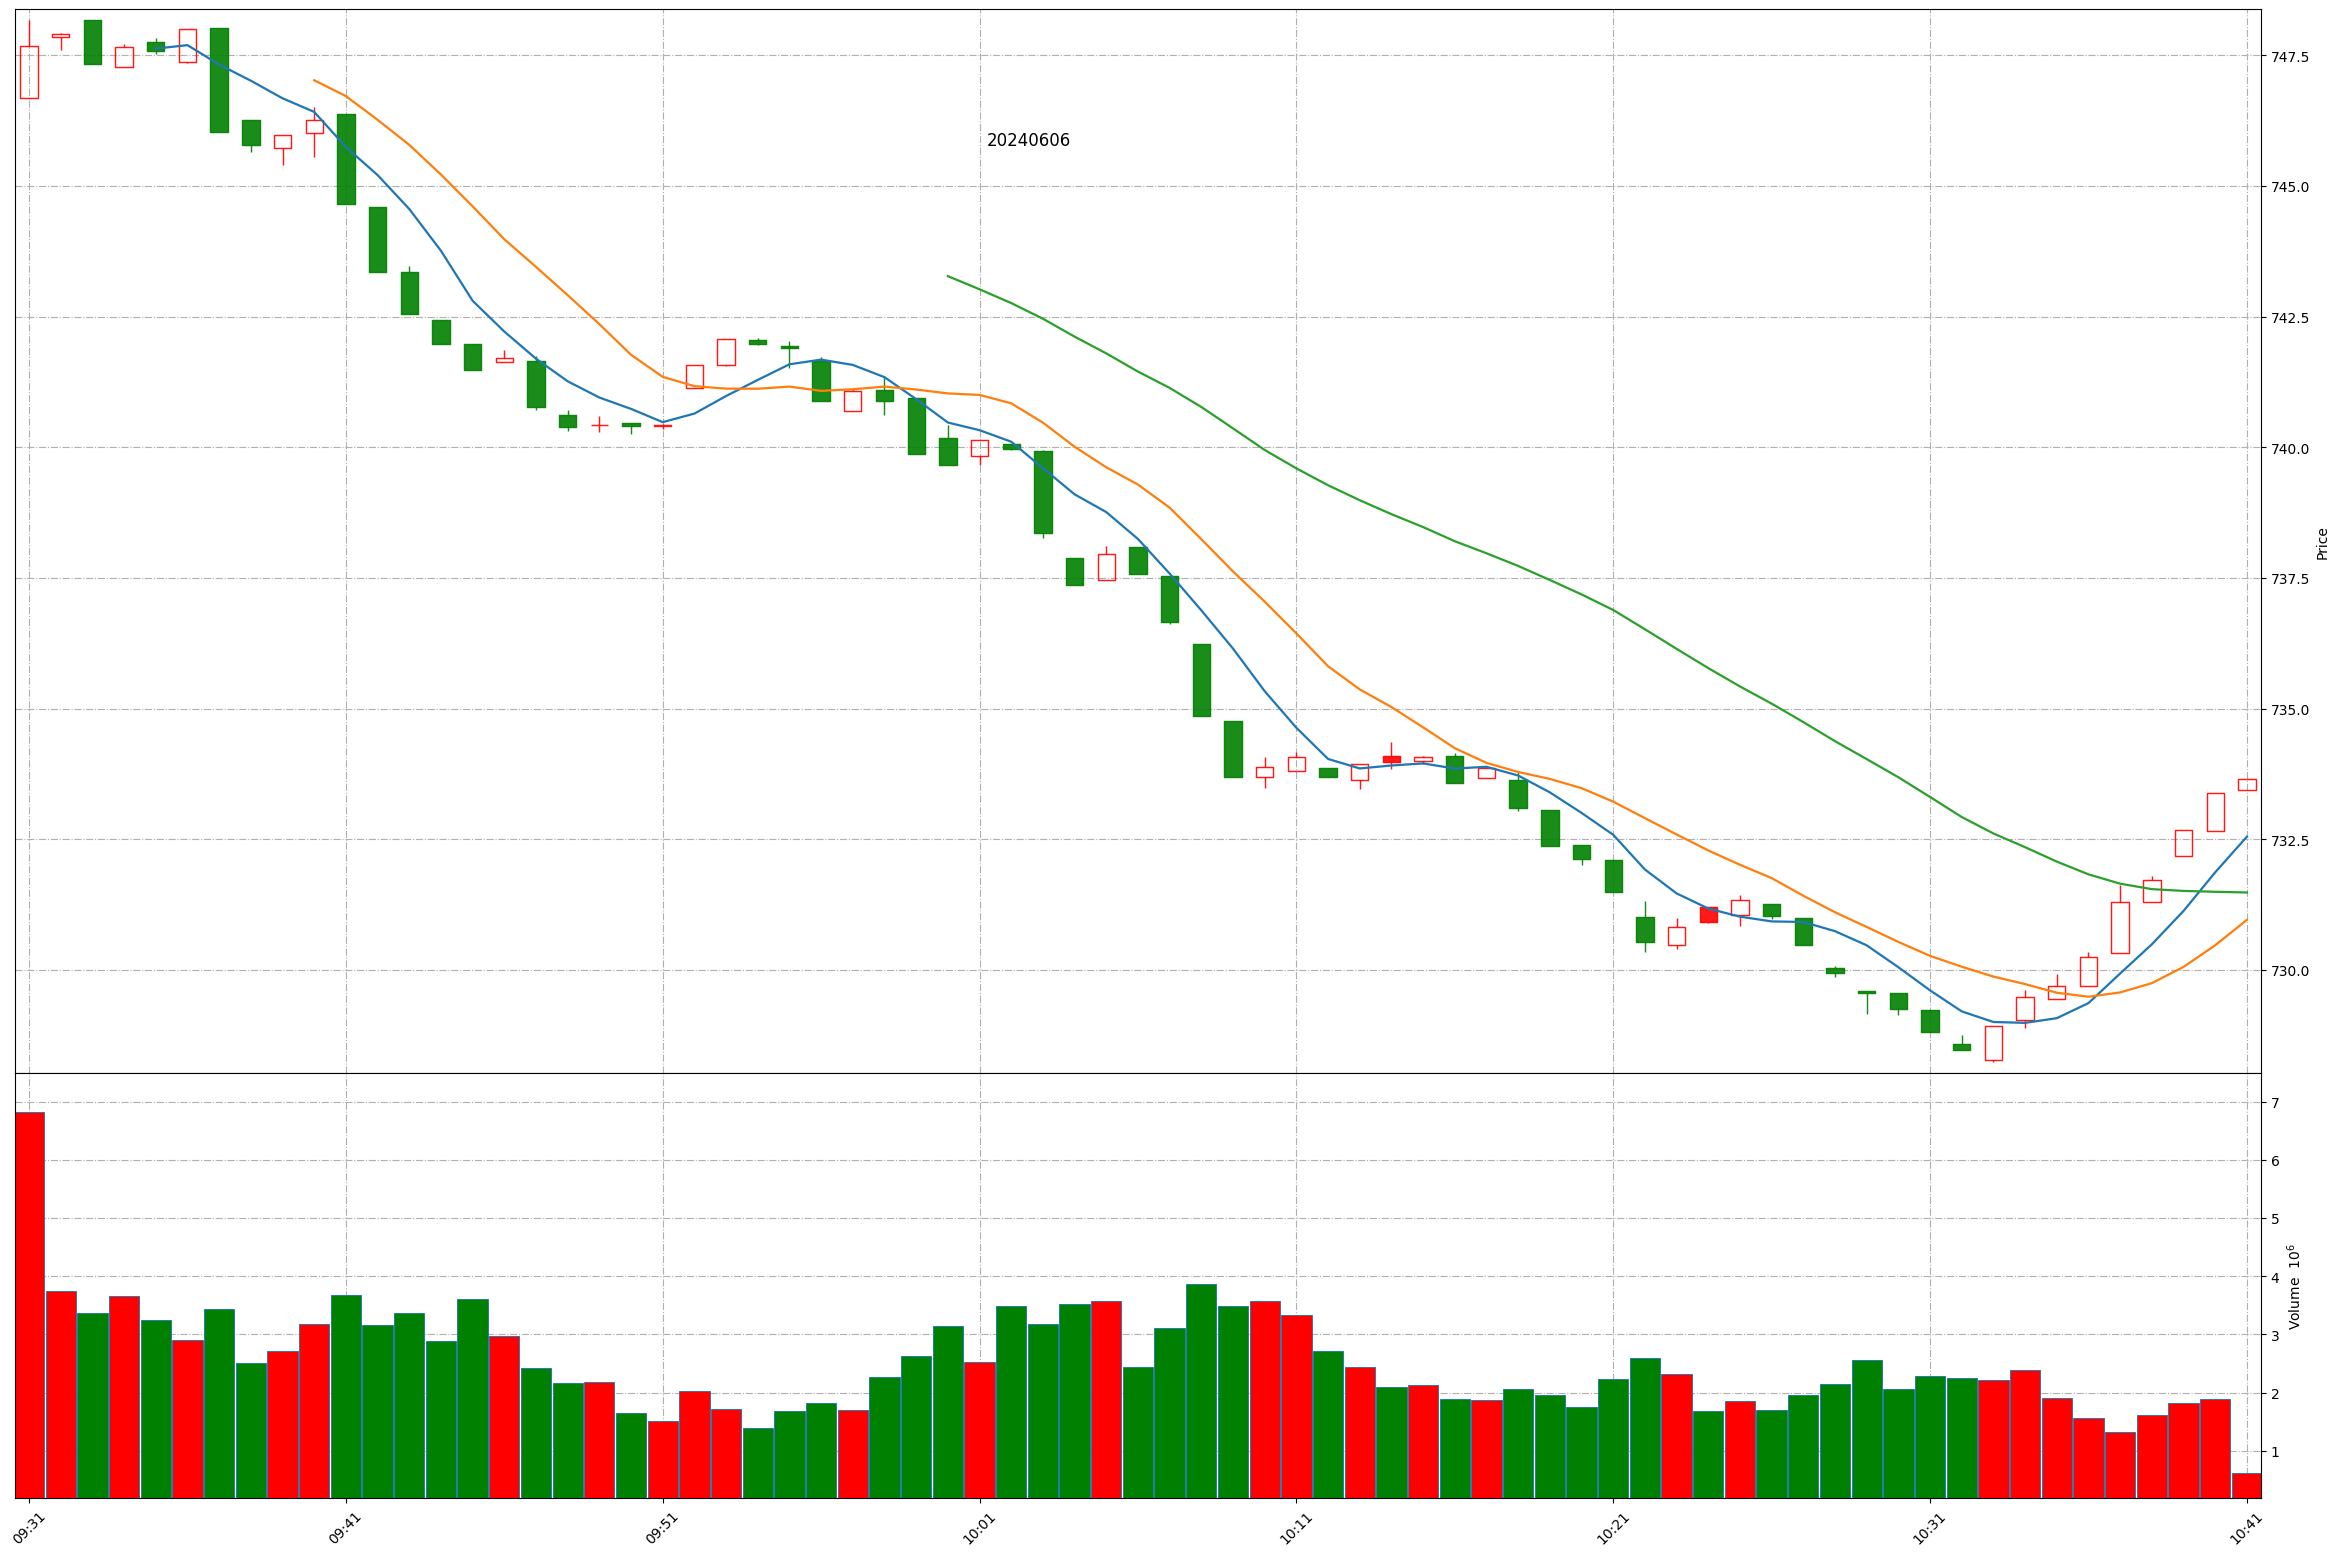
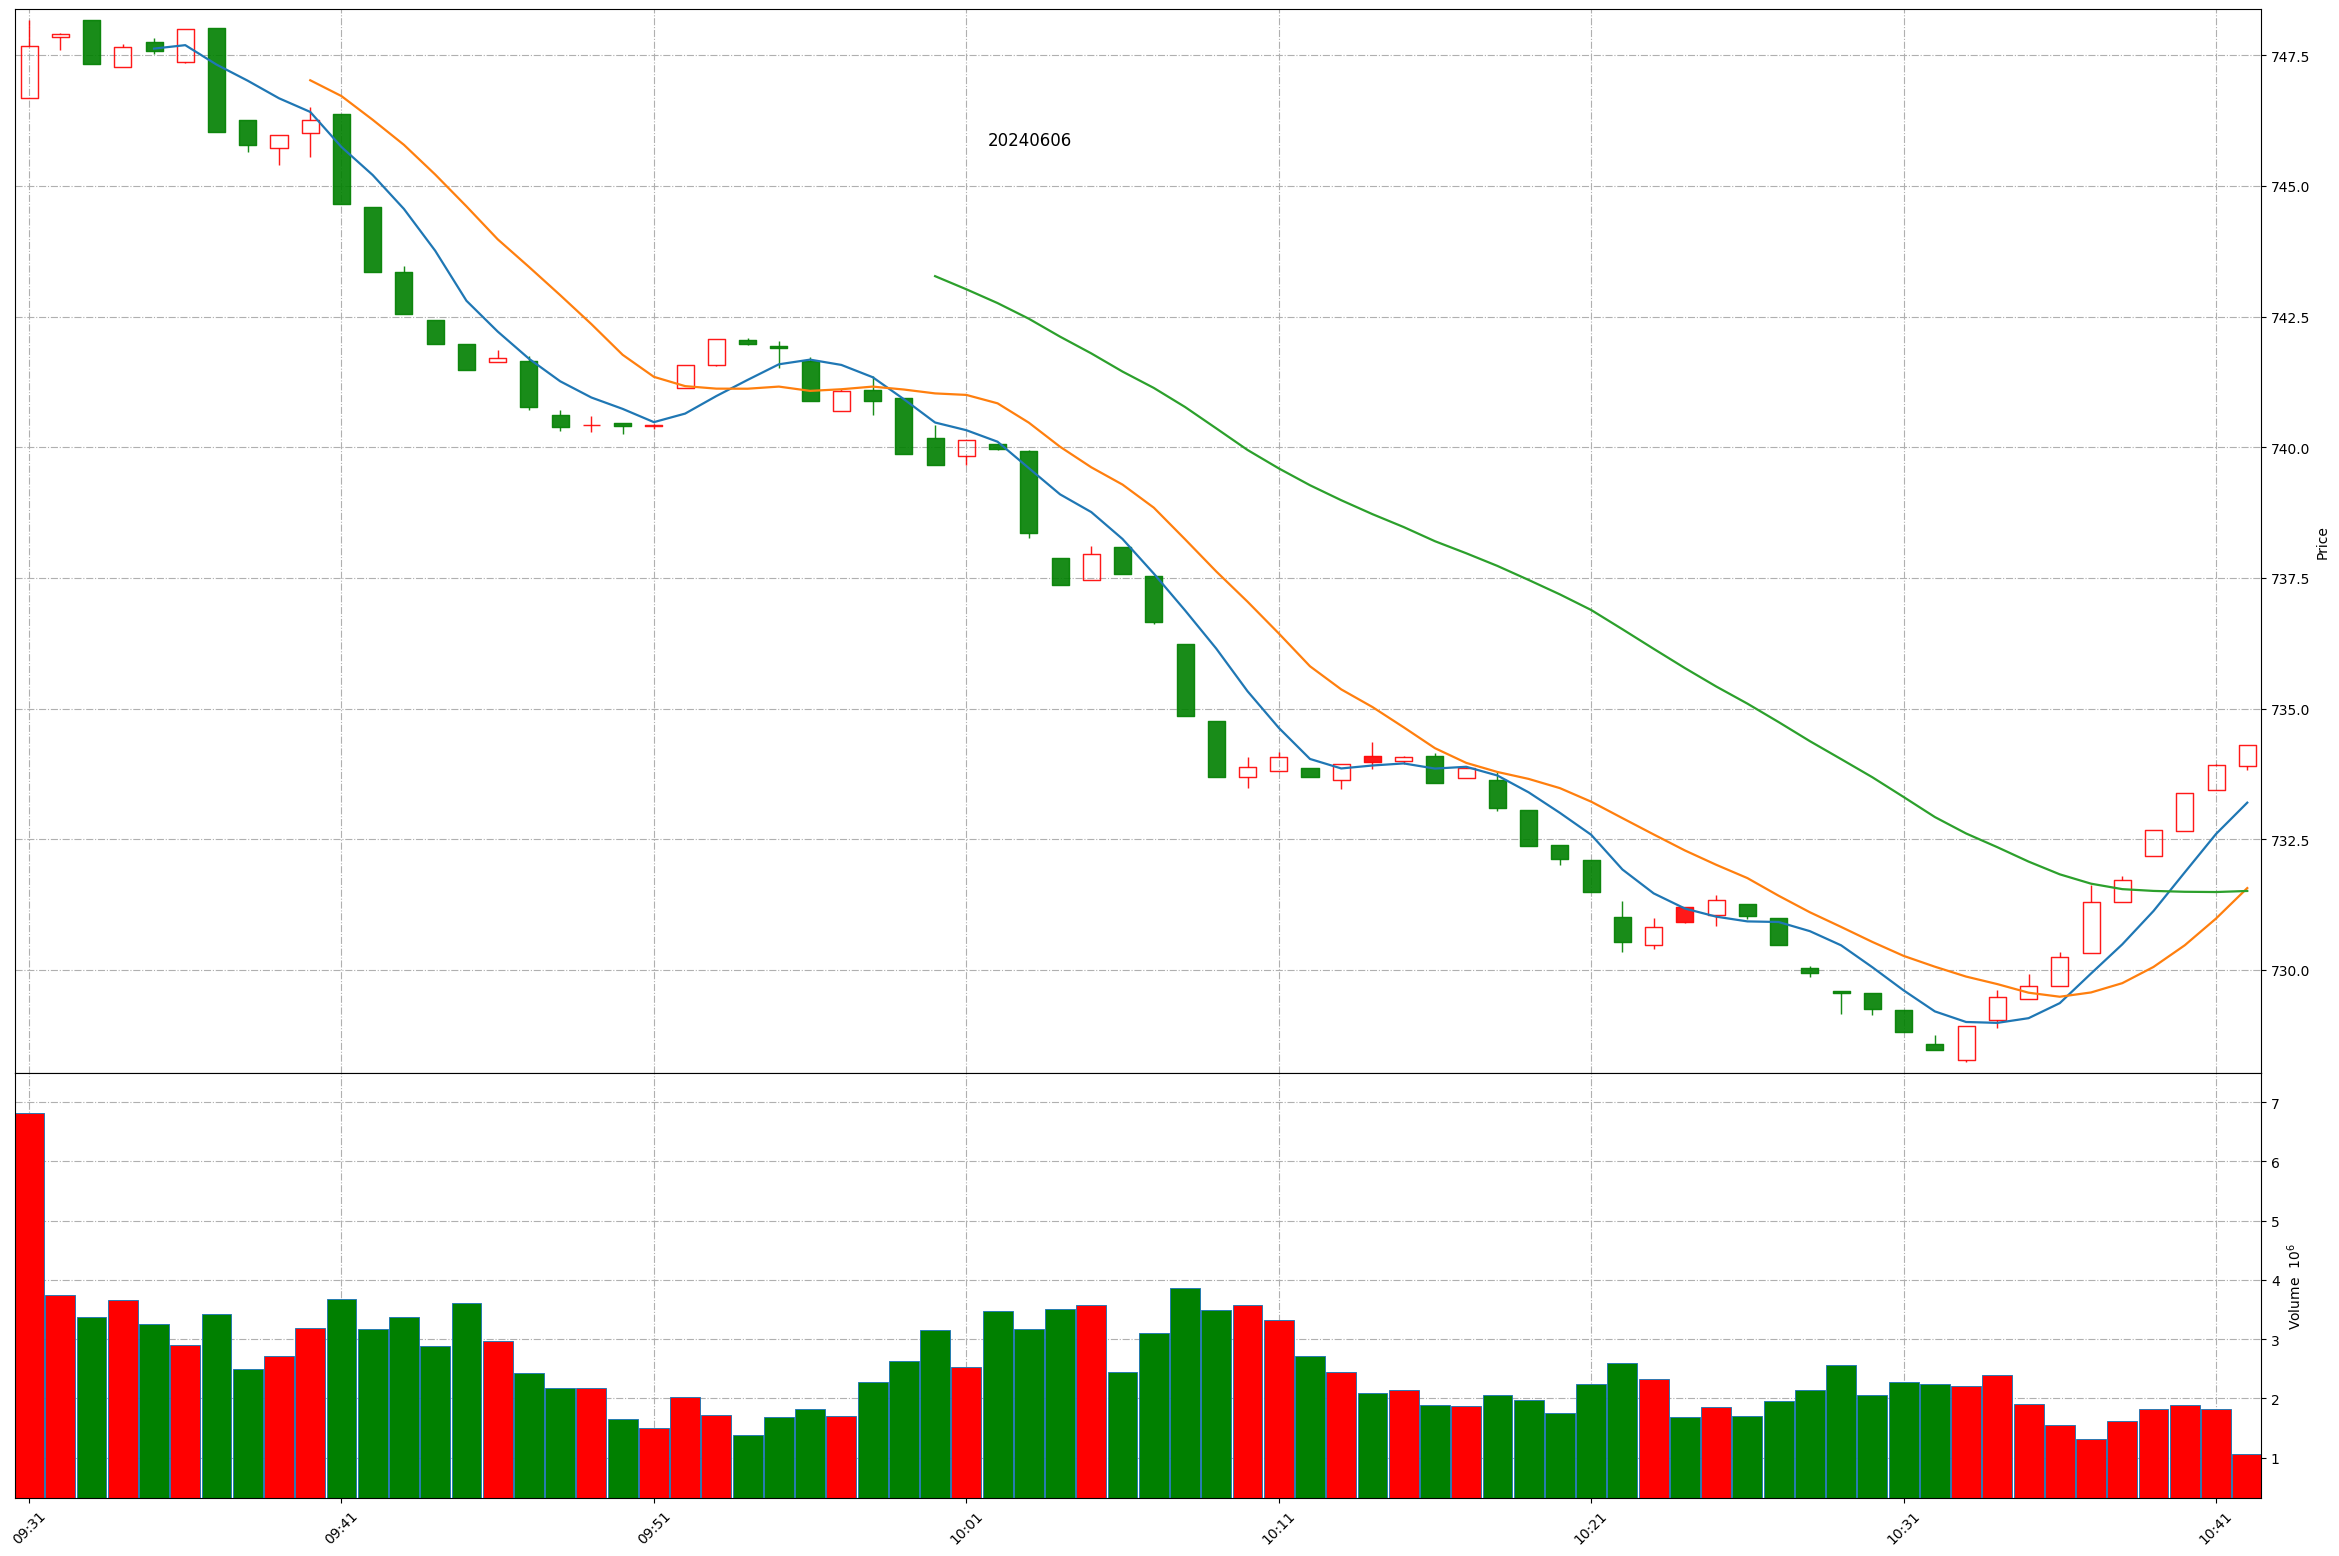
Github action update at 2024-06-06 10:41:59.

diff --git a/README.md b/README.md
@@ -1,11 +1,11 @@
 
 # Daily-A-share-market-quotes 每日 A 股指数（5min 更新）- 20240606
 
-### 上证指数 20240606 10:40
+### 上证指数 20240606 10:41
 ![](./fig/2024/6/20240606-sh000001.png)
 
-### 深证成指 20240606 10:40
+### 深证成指 20240606 10:41
 ![](./fig/2024/6/20240606-sz399001.png)
 
-### 北证50 20240606 10:40
+### 北证50 20240606 10:41
 ![](./fig/2024/6/20240606-bj899050.png)
